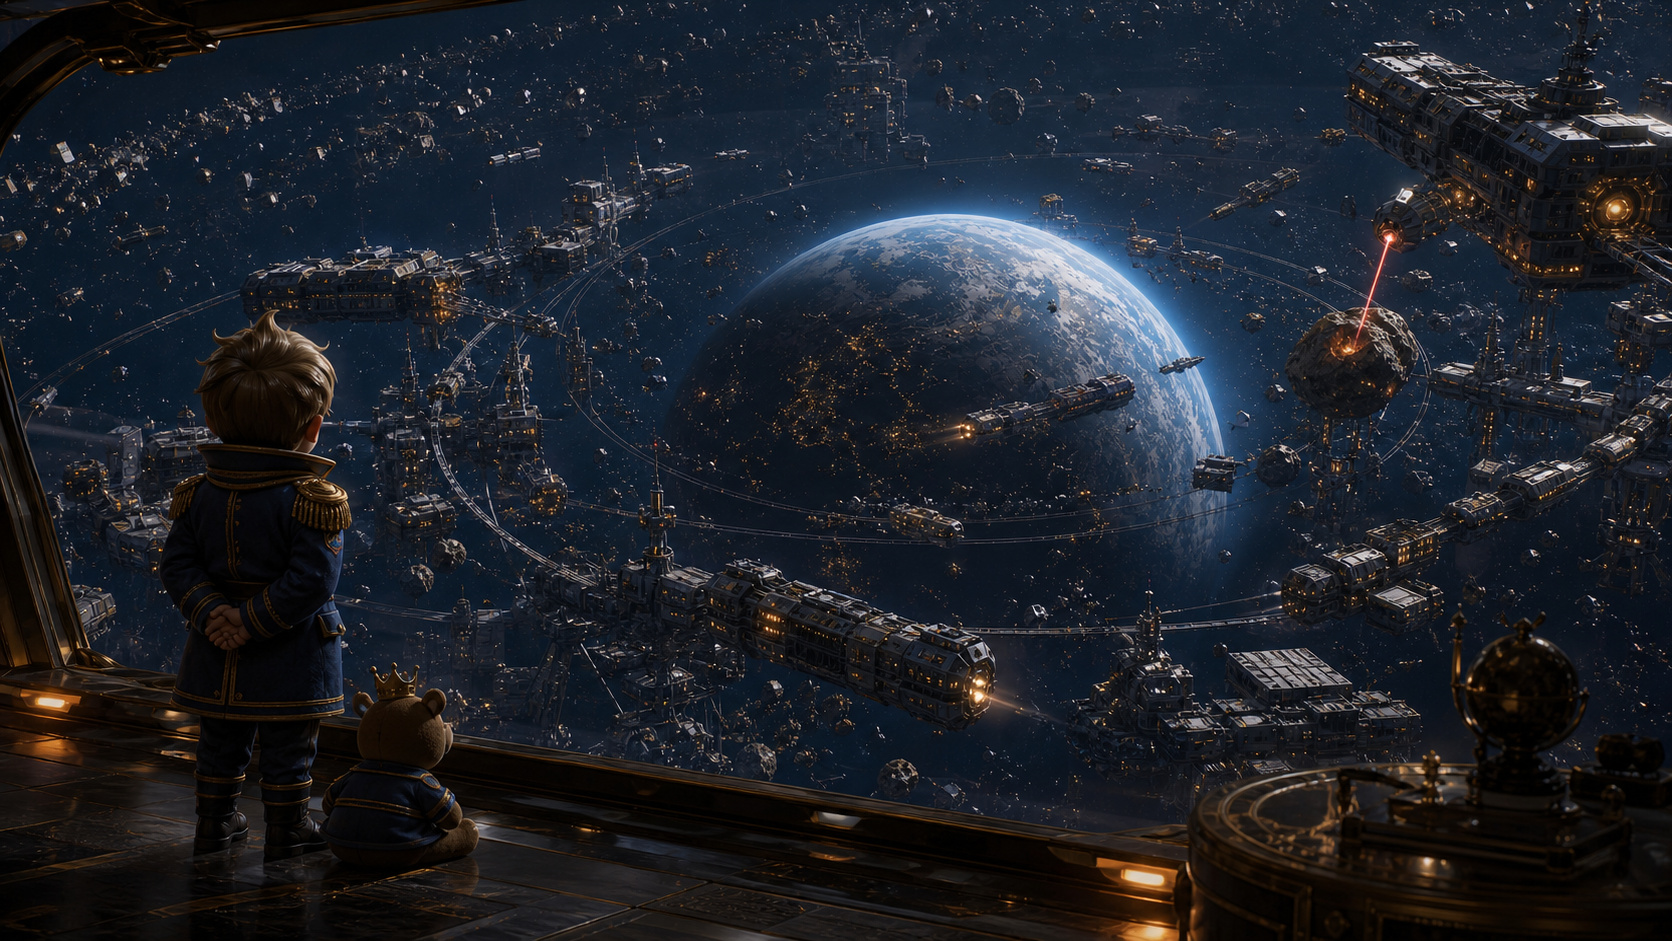
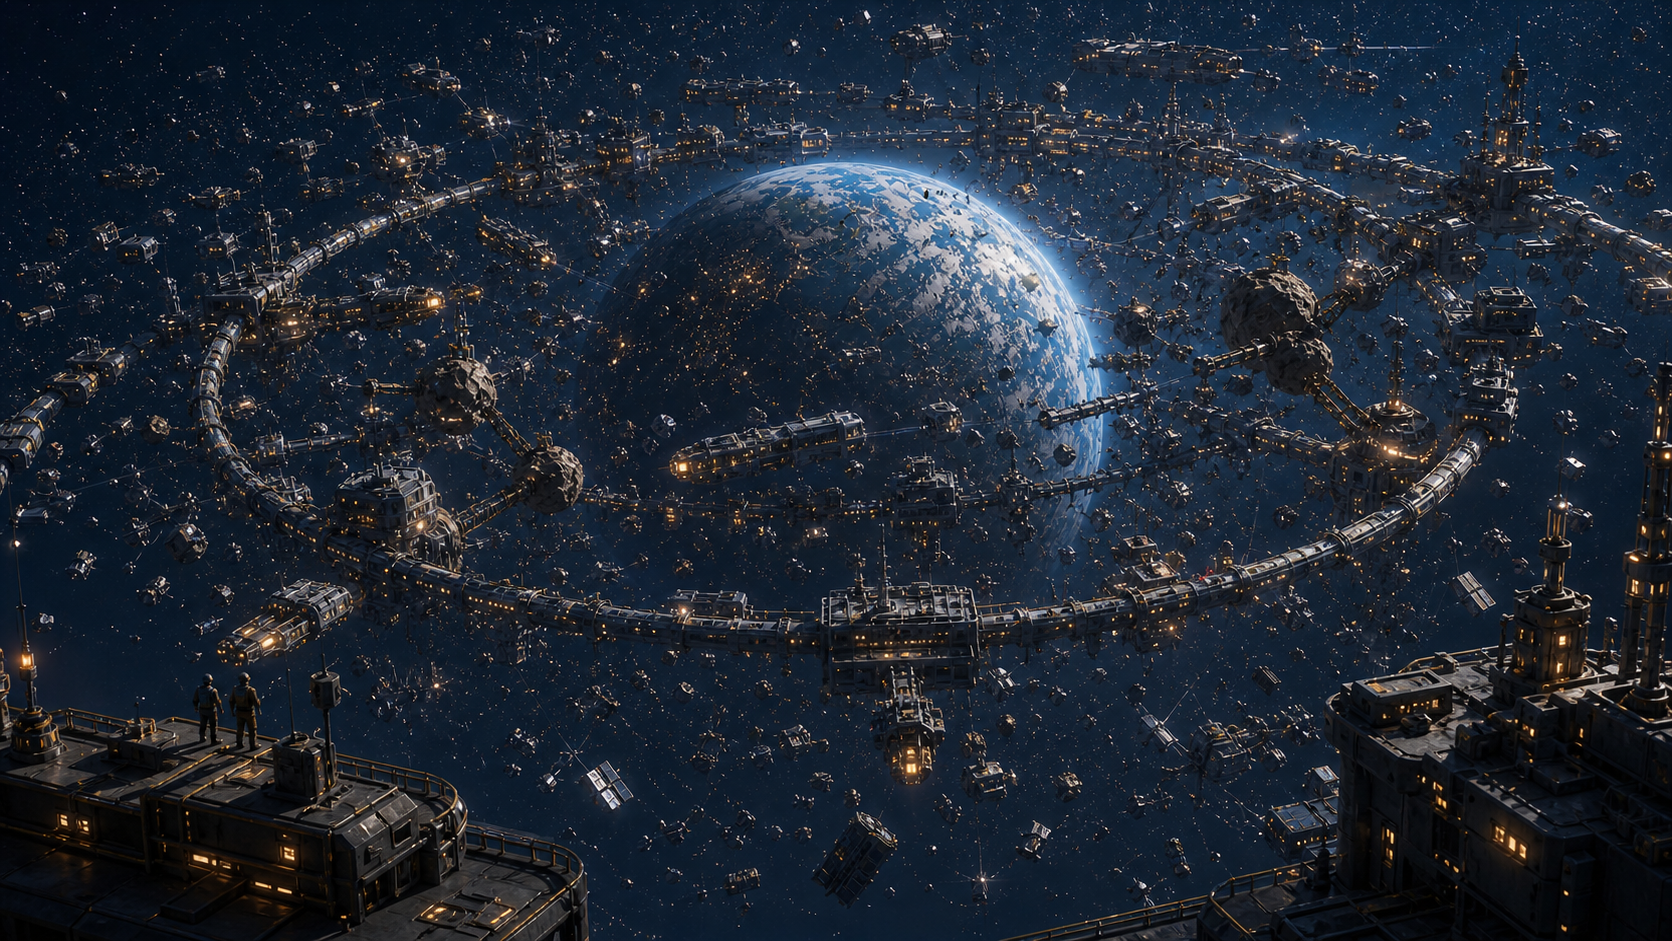
이미지 수정

diff --git a/public/VisionDeck/index.html b/public/VisionDeck/index.html
@@ -406,6 +406,20 @@
     </div>
   </section>
 
+  <section class="slide" aria-label="테크 세계관 구분 페이지">
+    <div class="frame chapter-frame" data-number="T">
+      <div class="slide-inner">
+        <header class="slide-head"><span class="chapter-mark">Part One · Universe</span><span>Tech History</span></header>
+        <div class="chapter-content">
+          <div class="eyebrow tech-text">TECH UNIVERSE</div>
+          <h2><span class="tech-text">TECH</span><br>UNIVERSE</h2>
+          <p>CLIMB의 산에서 시작해 BOB Company와 OMG의 면허 시험장으로 이어지는 연대기</p>
+        </div>
+        <footer class="slide-foot"><span>CLIMB → BOB Company → OMG</span><span class="page-no">TECH</span></footer>
+      </div>
+    </div>
+  </section>
+
   <section class="slide" aria-label="테크 세계관 역사 1 산의 음료 상인">
     <div class="frame history-frame" style="--image:url('assets/history/tech-01-beverage-merchant.png')"><div class="slide-inner">
       <header class="slide-head"><span class="chapter-mark">Part One · Tech History</span><span>CLIMB</span></header>
@@ -454,6 +468,20 @@
       </div>
       <footer class="slide-foot"><span>Tech Universe · OMG</span><span class="page-no">04E / 14</span></footer>
     </div></div>
+  </section>
+
+  <section class="slide" aria-label="판타지 세계관 구분 페이지">
+    <div class="frame chapter-frame" data-number="F">
+      <div class="slide-inner">
+        <header class="slide-head"><span class="chapter-mark">Part One · Universe</span><span>Fantasy History</span></header>
+        <div class="chapter-content">
+          <div class="eyebrow fantasy-text">FANTASY UNIVERSE</div>
+          <h2><span class="fantasy-text">FANTASY</span><br>UNIVERSE</h2>
+          <p>하트 여왕의 독재 아래 놓인 선물 검수소와 반역자 수용소</p>
+        </div>
+        <footer class="slide-foot"><span>Heart Queen → Inspection → Prison</span><span class="page-no">FANTASY</span></footer>
+      </div>
+    </div>
   </section>
 
   <section class="slide" aria-label="판타지 세계관 역사 1 하트 여왕의 통치">
